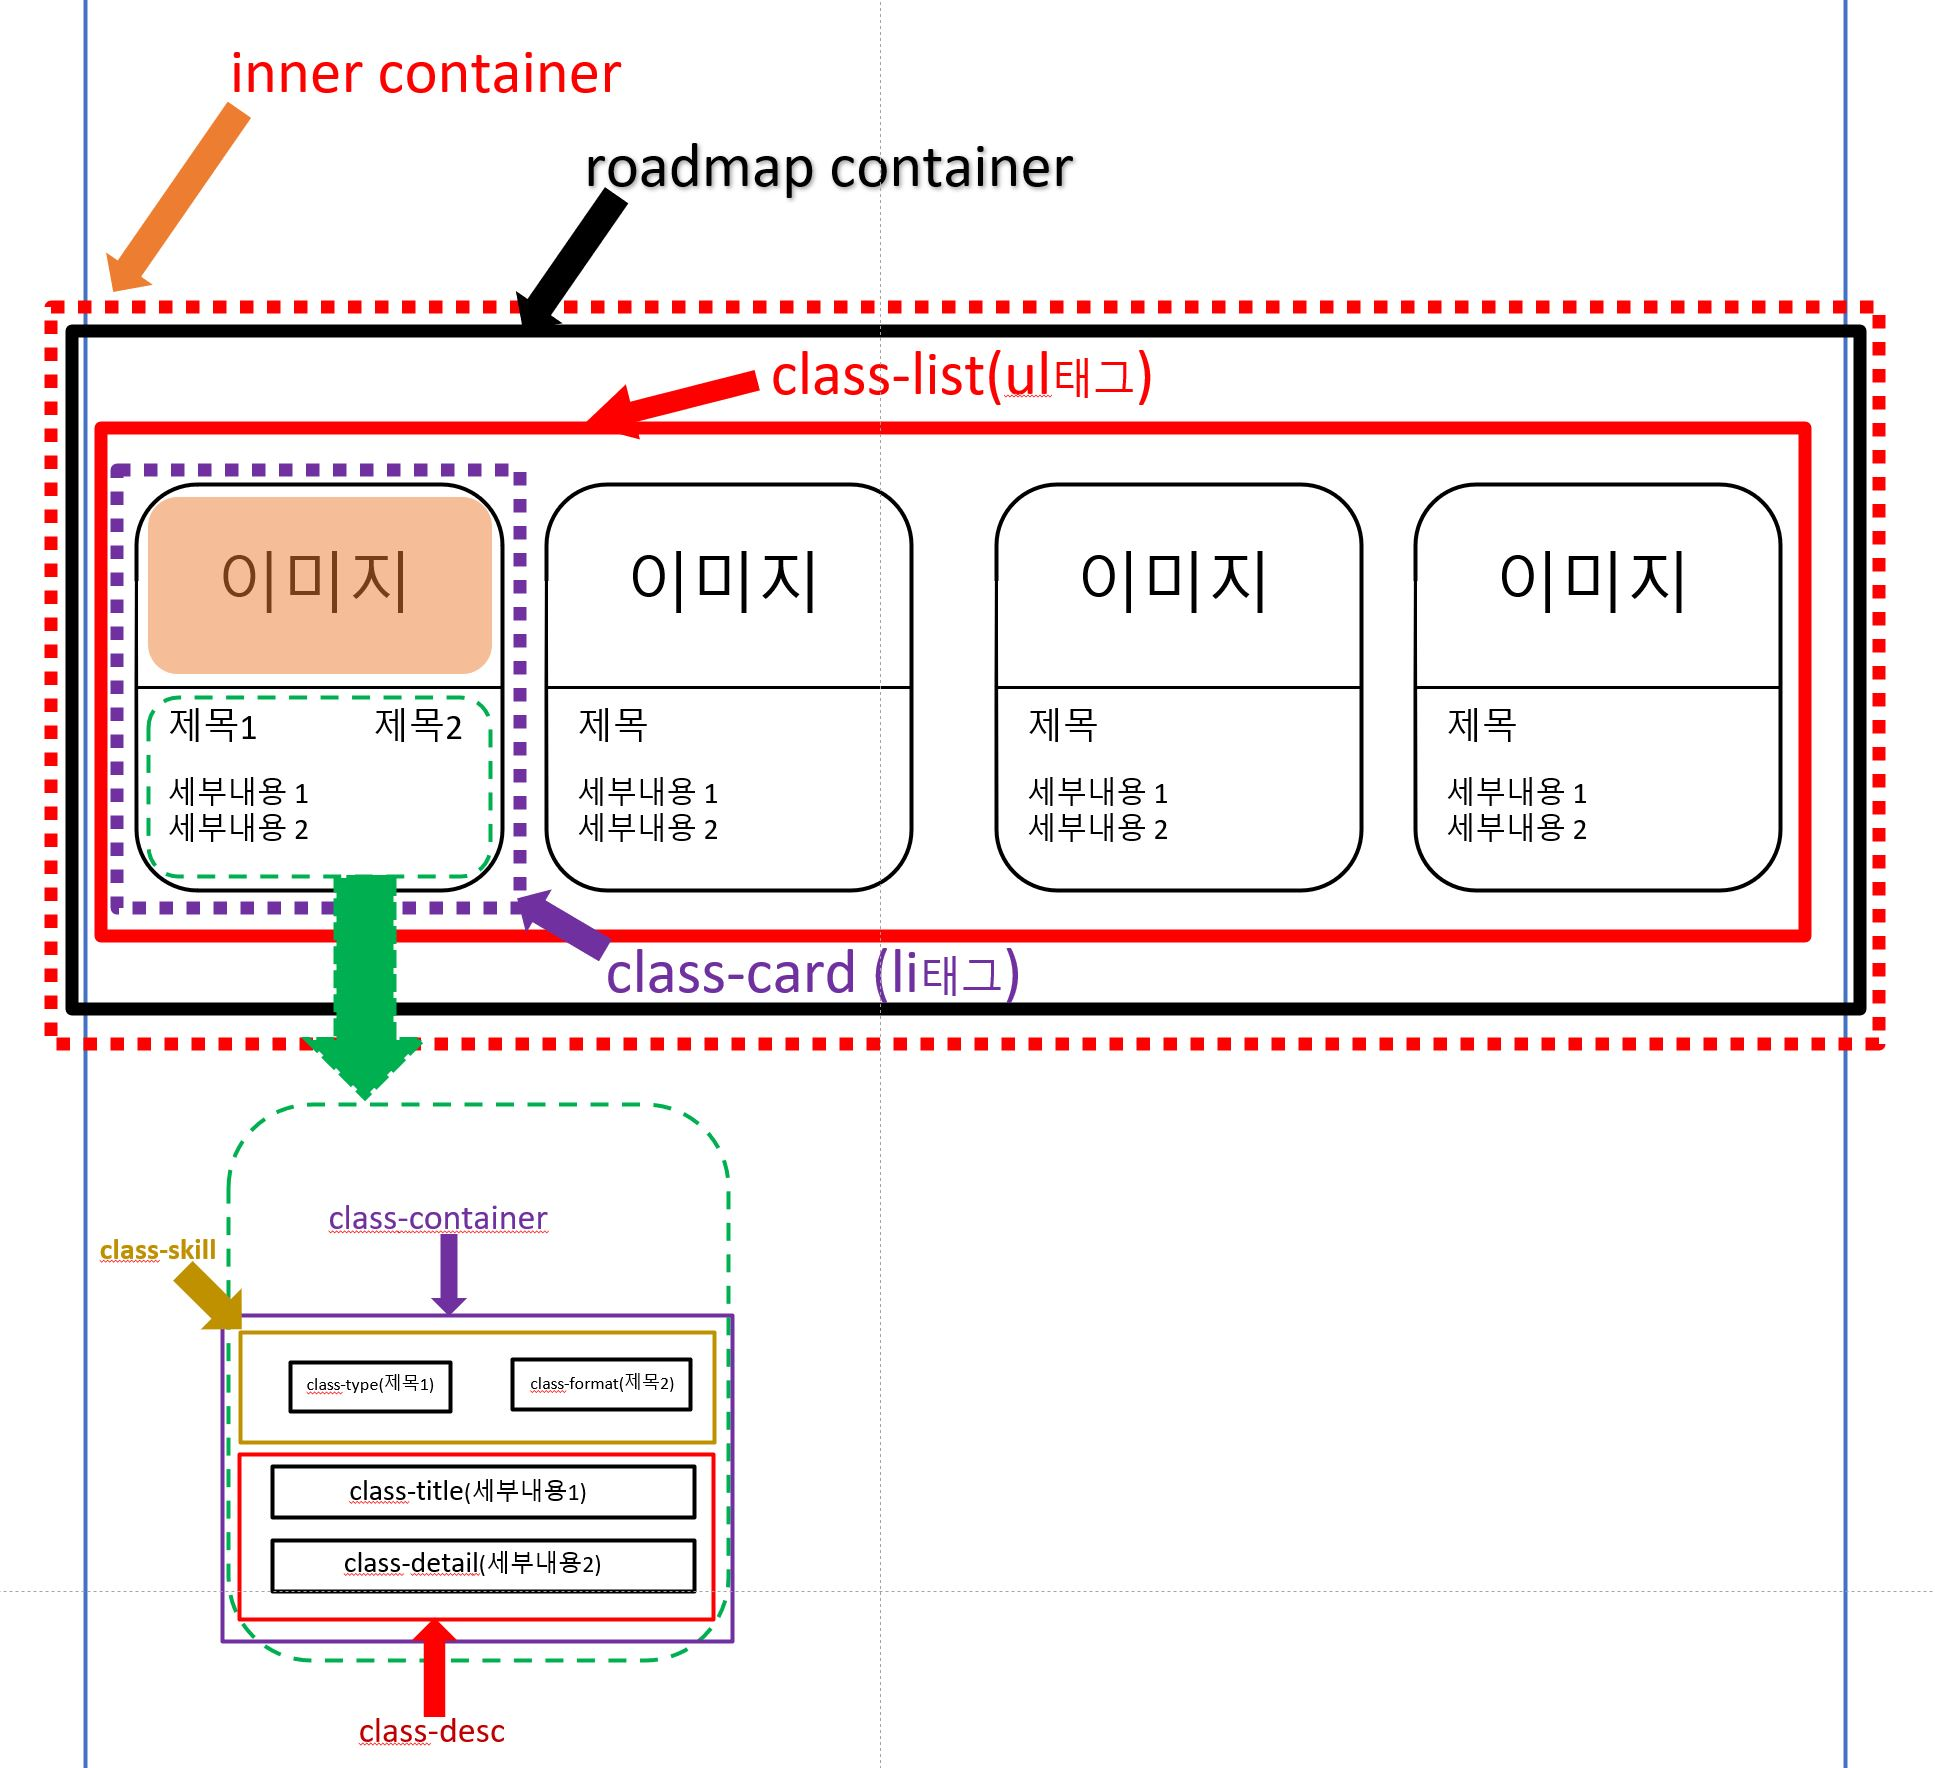
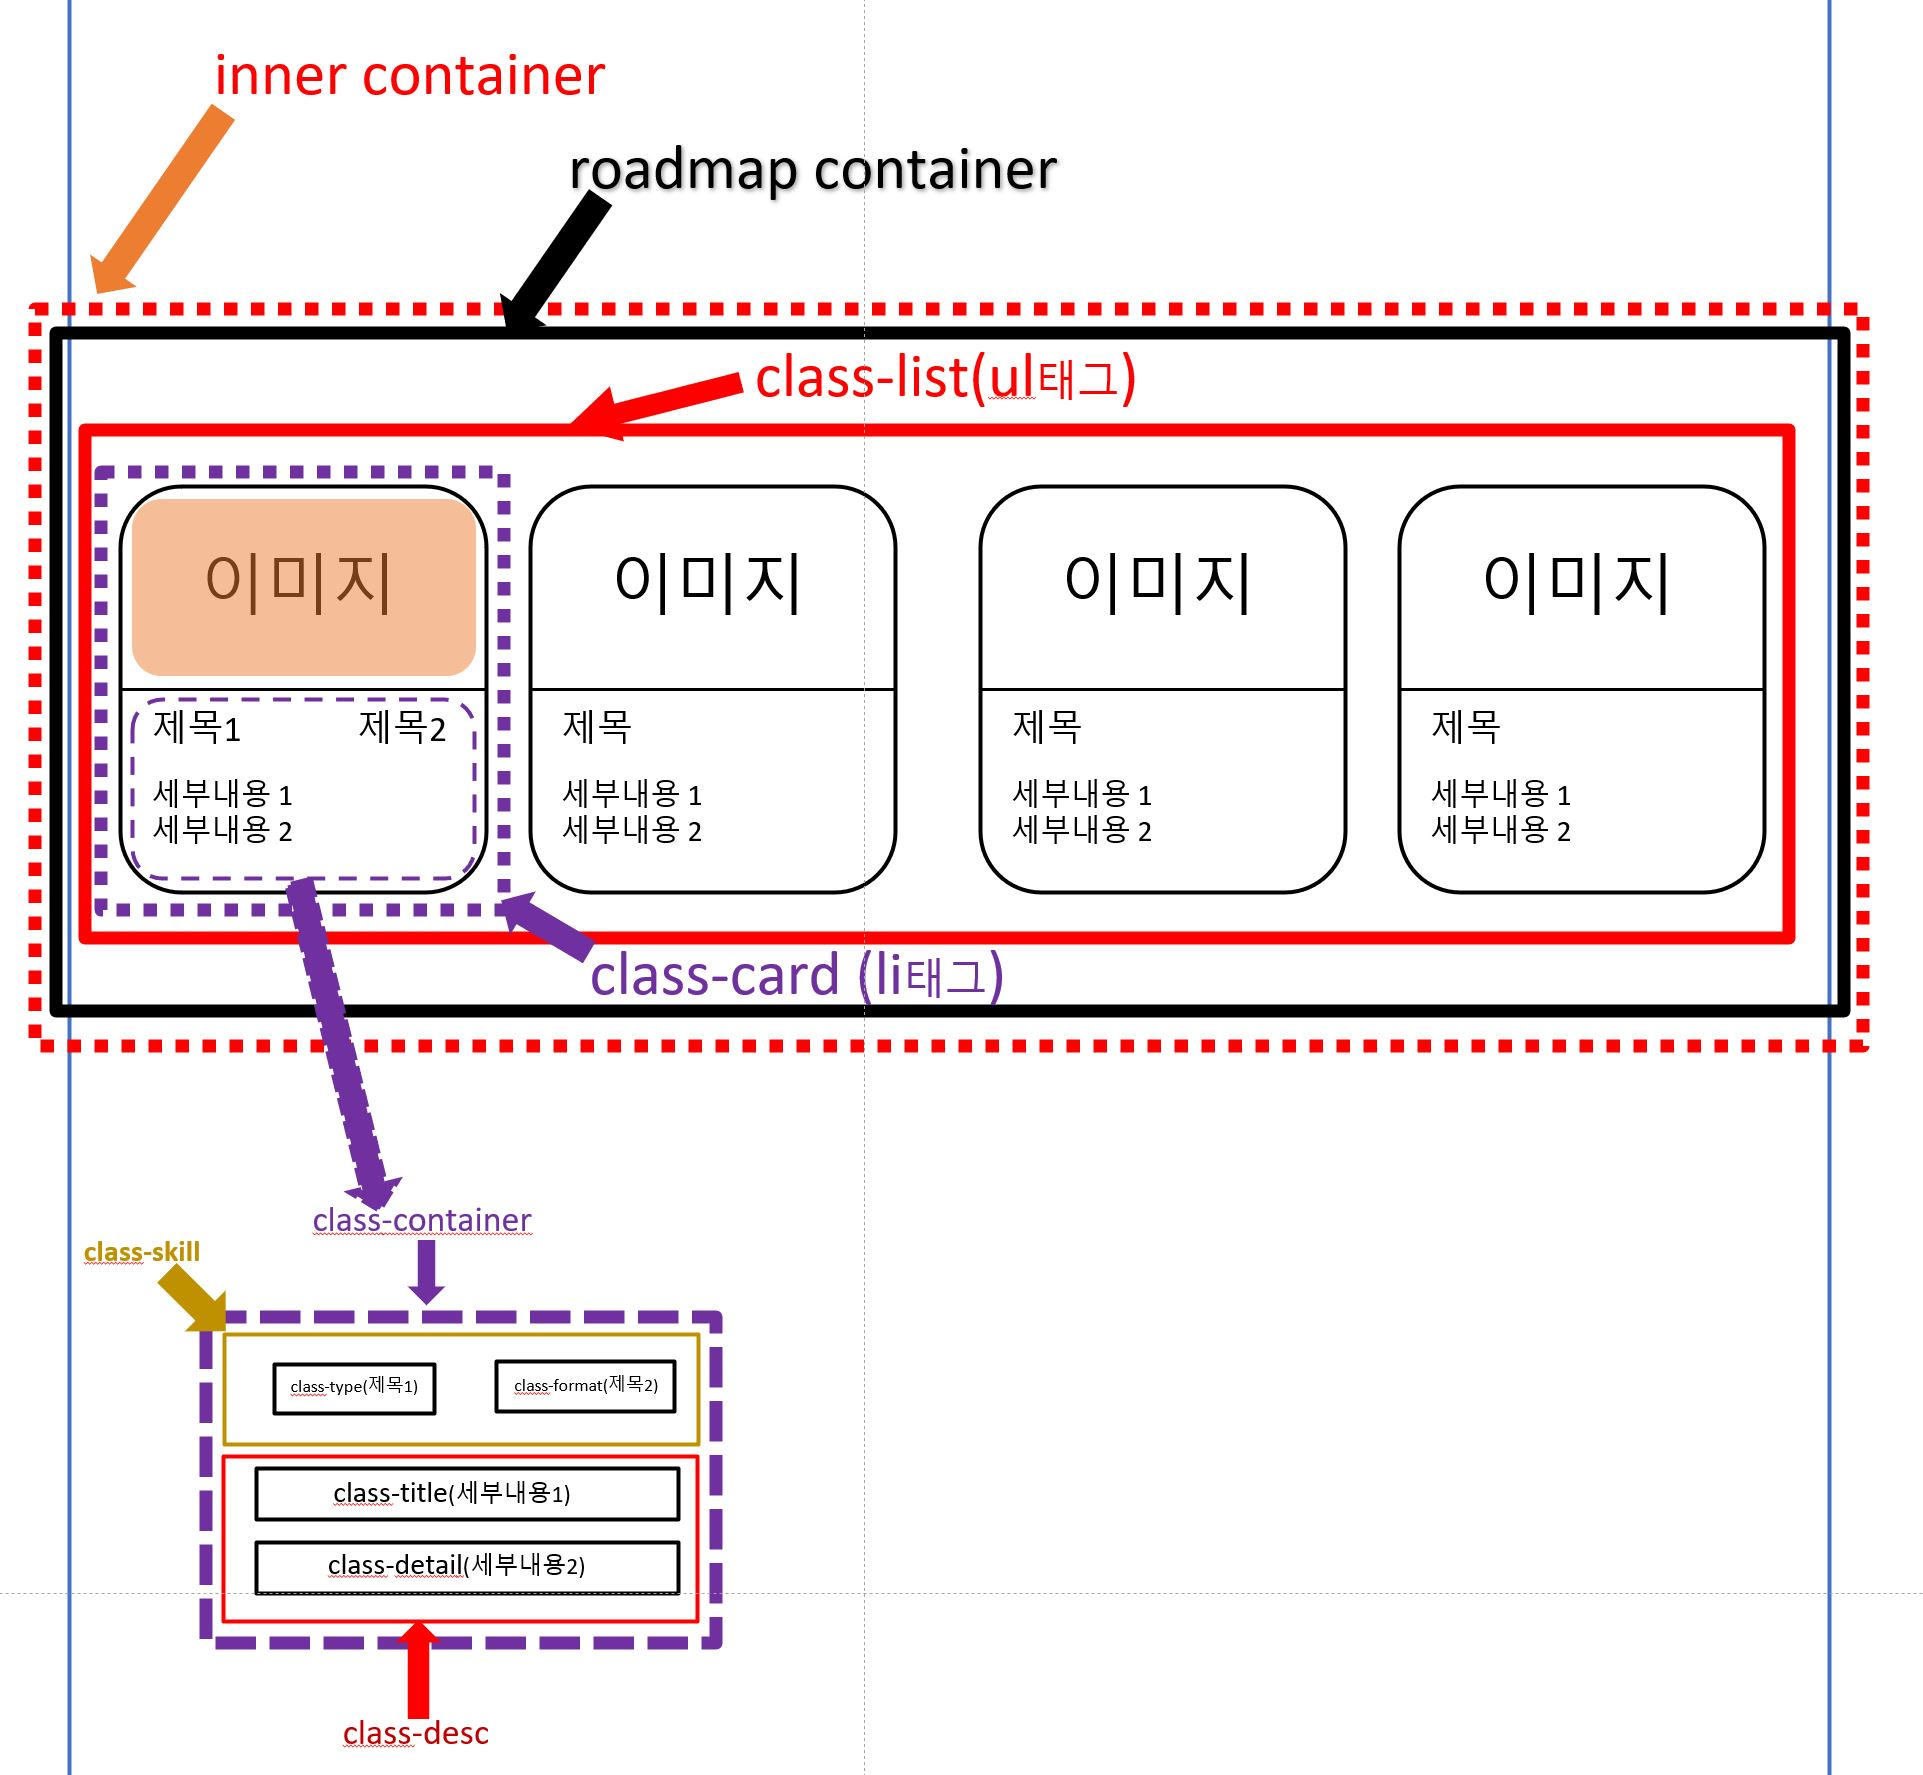
0401

Changed region(s): [[0.0, 0.0, 0.9984, 1.0]]

diff --git a/_posts/2022-04-01-HtmlCssJs0006.md b/_posts/2022-04-01-HtmlCssJs0006.md
@@ -22,10 +22,9 @@ search: true
 
 <div align="center">
 <img src="https://github.com/Gibson1211/Gibson1211.github.io/blob/master/assets/images/sectionDetailOfDivision.JPG?raw=true" width="750"><br><br>
-<h6>세번째 섹션의 영역은 아래와 같이 구성되어 있다.</h6>
-<h6>하단은 한 줄을 감싸는 줄 컨테이너 영역 안에 하나의 텍스트박스와 두개의 화살표 아이콘을 감싸고 있는<br> 하나의 컨테이너로 구성되어 있다.<br> 또한 화살표 아이콘을 감싸고 있는 컨테이너 안에는 좌, 우 화살표가 분리되어 들어가있다.  </h6>
+
 <img src="https://github.com/Gibson1211/Gibson1211.github.io/blob/master/assets/images/zoneDetail.jpg?raw=true" width="480"><br><br>
-<img src="https://github.com/Gibson1211/Gibson1211.github.io/blob/master/assets/images/zoneDetail.jpg?raw=true" width="480"><br>
+<img src="https://github.com/Gibson1211/Gibson1211.github.io/blob/master/assets/images/classCardDetail.JPG?raw=true" width="1000"><br>
 </div>
 <br>
 <h3>[index.html]</h3>
